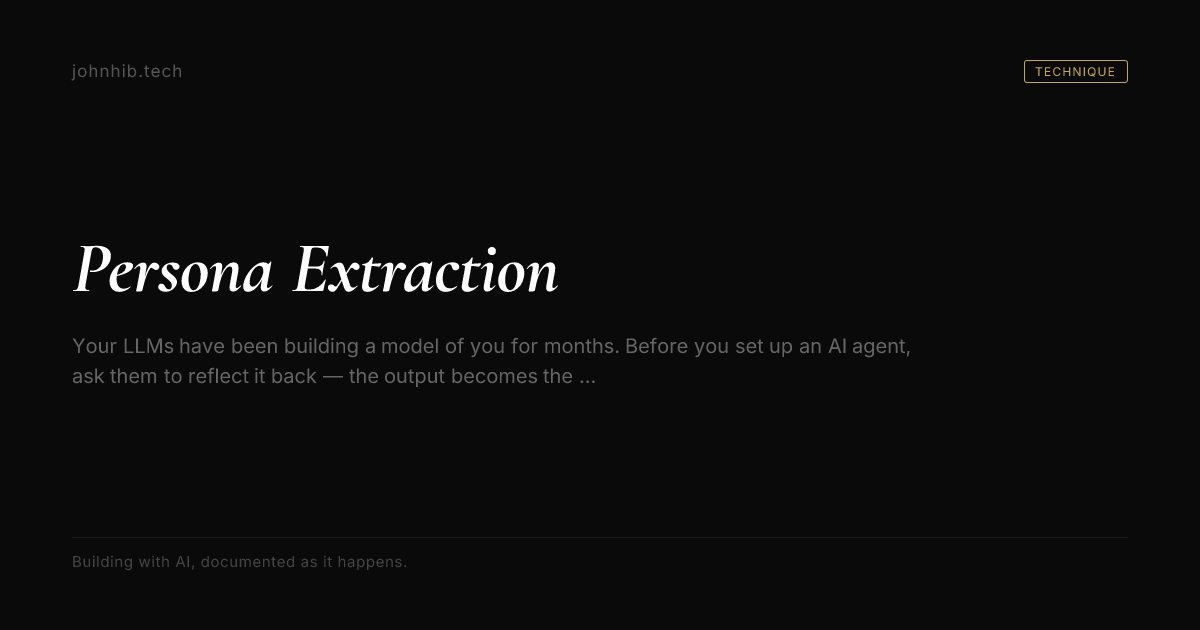
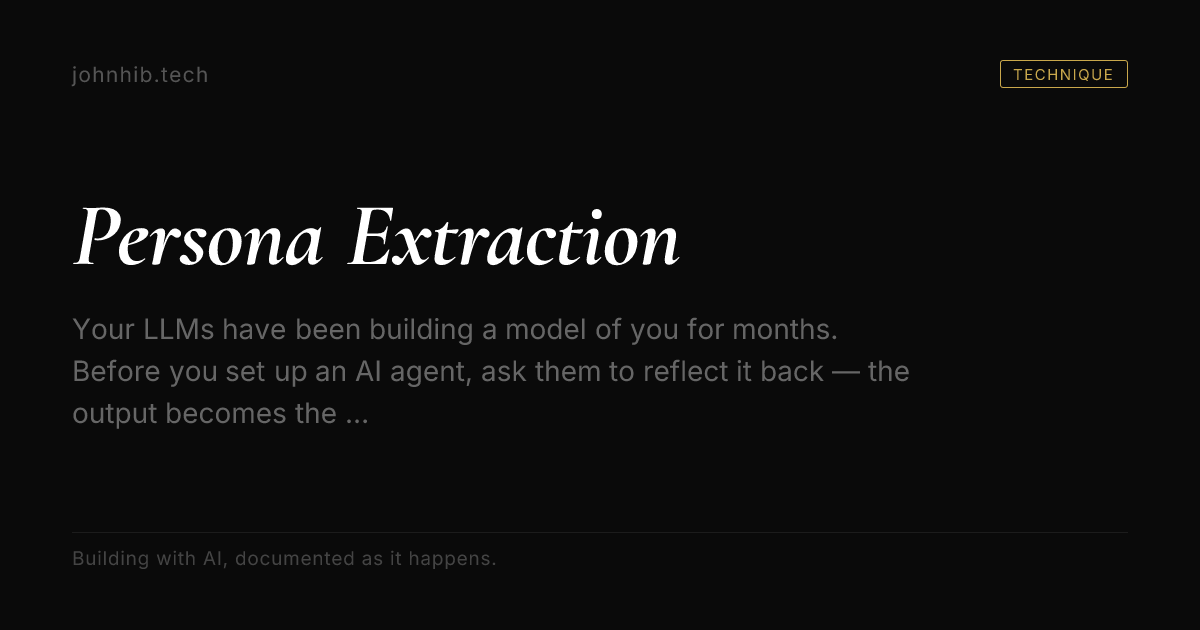
og: scale text +25%, tighten header/subhead ratio (subhead +10% extra)

diff --git a/memory/2026-03-17.md b/memory/2026-03-17.md
@@ -112,9 +112,41 @@
 2. **Pre-generate at build time** — script calls `/og` route locally during `vercel build`, writes PNGs to `/public/og/[slug].png`. Full rich cards per article, zero runtime. Recommended.
 3. **External image service** — Cloudinary / ImageKit CDN generates card. Trusted CDN Apple loves.
 
-### Decision pending
-- Recommended Option 2 (pre-generate at build time); John asked if we should build it now
-- Awaiting John's confirmation before proceeding
+### Decision
+- John chose Option 2: pre-generate static PNGs at build time
+
+---
+
+## Session (8:27 PM — Static OG Image Build Pipeline)
+
+### What was built
+- `scripts/generate-og.mjs` — Node build script using `satori` + `@resvg/resvg-js`
+- Reads article slugs/titles/excerpts/tags from `src/lib/articles/data.ts` via regex
+- Generates `public/og/home.png` + `public/og/[slug].png` for every article
+- Fonts: `CormorantGaramond-Italic-700.ttf` + `Inter-Regular.ttf` (had to use TTF, not woff2/otf — satori only supports TTF)
+- Inter TTF fetched from `fonts.gstatic.com/s/inter/v20/...` (317KB)
+- 4 PNGs generated: home (19KB), ticket-watch (32KB), persona-extraction-from-llms (32KB), how-to-secure-your-openclaw-setup (36KB)
+
+### package.json build script updated
+- `"build": "node scripts/generate-og.mjs && next build"` — PNGs regenerated on every deploy
+
+### Metadata updated
+- `layout.tsx`: home OG image → `/og/home.png` (was `/og` dynamic route)
+- `writings/[slug]/page.tsx`: article OG image → `/og/${slug}.png` (was `/og?slug=${slug}`)
+
+### Why this works where the edge route didn't
+- Apple's crawler gets a direct static PNG — no edge function, no font fetch, no circular network call
+- Static files served from Vercel CDN — fast, reliable, no timeout risk
+
+### Commit + Deploy
+- Commit: `58ce118` — "og: pre-generate static PNGs at build time — no edge runtime, no circular font fetch"
+- Deploy: `johnhib-tech-mta42y9ia` → live at johnhib.tech
+- Verify: `https://johnhib.tech/og/ticket-watch.png` should serve the card directly
+- Test: send `https://johnhib.tech/writings/ticket-watch` in fresh iMessage thread
+
+### Note: inbox/ files getting committed
+- `inbox/IMG_4553.jpeg`, `inbox/imessage-preview-result.png` committed — need to add `inbox/` to `.gitignore`
+- Also `Inter-Regular.otf` is in public/fonts/ but unused (TTF is the one that works with satori)
 
 ---
 
